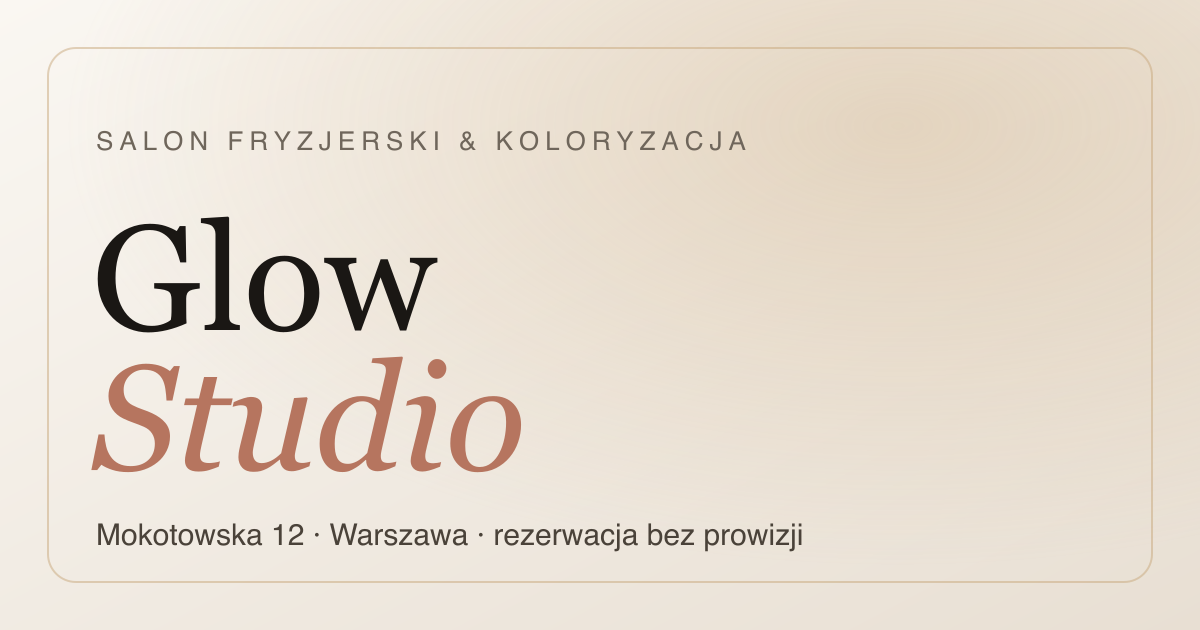
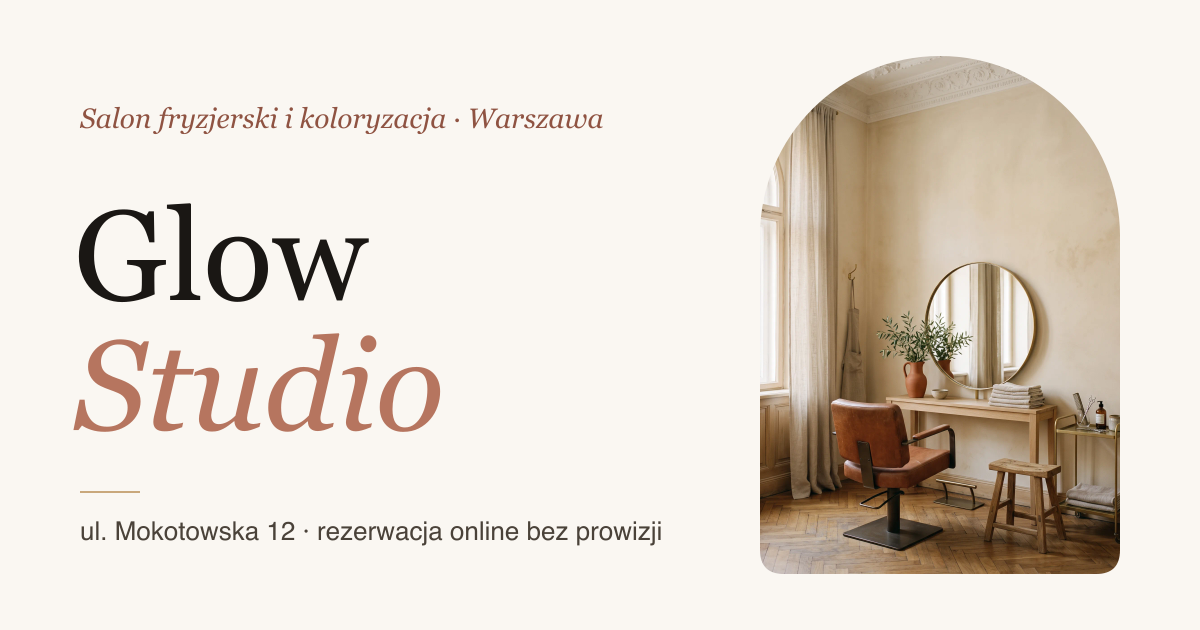
feat: dopracowanie po przeglądzie: 404, menu, OG, sierotki
- Własna strona 404 w stylu karty salonu.
- Menu mobilne: przyciemnienie tła, inert gdy zamknięte (linki poza Tab);
  pełna nawigacja dopiero od lg, żeby nie ściskała się na tablecie.
- Rezerwacja: "Dalej" także w przyklejonym podsumowaniu na desktopie.
- Podstrona usługi: zdjęcie efektu, powiązane usługi pod treścią.
- Obraz OG/Twitter ze zdjęciem wnętrza w łuku okna.
- Twarde spacje po jednoliterowych słowach w nazwach i nagłówkach.
- data-scroll-behavior=smooth (Next 16), README: nowe media i skrypty.

diff --git a/src/app/uslugi/[slug]/page.tsx b/src/app/uslugi/[slug]/page.tsx
@@ -138,11 +138,34 @@ export default async function ServicePage({
                 Zadzwoń
               </Button>
             </div>
+
+            {related.length > 0 && (
+              <div className="mt-14 max-w-xl">
+                <h2 className="font-display text-lg italic text-ink-soft">
+                  W tej samej kategorii
+                </h2>
+                <ul className="mt-4 divide-y divide-line/70">
+                  {related.map((s) => (
+                    <li key={s.id}>
+                      <Link
+                        href={`/uslugi/${s.slug}`}
+                        className="flex min-h-11 items-center justify-between gap-4 py-3 text-sm transition-colors hover:text-terracotta-ink"
+                      >
+                        <span className="text-ink">{s.name}</span>
+                        <span className="shrink-0 tabular-nums text-muted">
+                          {formatPrice(s)}
+                        </span>
+                      </Link>
+                    </li>
+                  ))}
+                </ul>
+              </div>
+            )}
           </div>
 
-          {/* Karta podsumowania + powiązane */}
+          {/* Zdjęcie efektu (metamorfoza tej usługi albo detal studia) */}
           <aside className="lg:pt-10">
-            <figure className="mb-8">
+            <figure>
               <div className="arch relative aspect-4/5 w-full max-w-sm overflow-hidden bg-sand">
                 <Photo
                   src={example?.afterImage ?? "/studio/detal.webp"}
@@ -165,49 +188,6 @@ export default async function ServicePage({
                 </figcaption>
               )}
             </figure>
-            <div className="rounded-card border border-line bg-sand/30 p-7">
-              <dl className="space-y-3 text-sm">
-                <div className="flex justify-between border-b border-line pb-3">
-                  <dt className="text-muted">Cena</dt>
-                  <dd className="font-medium text-ink">{formatPrice(service)}</dd>
-                </div>
-                <div className="flex justify-between border-b border-line pb-3">
-                  <dt className="text-muted">Czas</dt>
-                  <dd className="text-ink">
-                    {formatDuration(service.durationMin)}
-                  </dd>
-                </div>
-                {category && (
-                  <div className="flex justify-between">
-                    <dt className="text-muted">Kategoria</dt>
-                    <dd className="text-ink">{category.name}</dd>
-                  </div>
-                )}
-              </dl>
-            </div>
-
-            {related.length > 0 && (
-              <div className="mt-8">
-                <h2 className="font-display text-lg italic text-ink-soft">
-                  W tej samej kategorii
-                </h2>
-                <ul className="mt-4 divide-y divide-line/70">
-                  {related.map((s) => (
-                    <li key={s.id}>
-                      <Link
-                        href={`/uslugi/${s.slug}`}
-                        className="flex min-h-11 items-center justify-between gap-4 py-3 text-sm transition-colors hover:text-terracotta-ink"
-                      >
-                        <span className="text-ink">{s.name}</span>
-                        <span className="shrink-0 tabular-nums text-muted">
-                          {formatPrice(s)}
-                        </span>
-                      </Link>
-                    </li>
-                  ))}
-                </ul>
-              </div>
-            )}
           </aside>
         </div>
       </Container>

diff --git a/src/components/sections/BeforeAfter.tsx b/src/components/sections/BeforeAfter.tsx
@@ -24,9 +24,9 @@ export function BeforeAfter() {
     <Section id="metamorfozy" className="border-t border-line bg-sand/35">
       <Reveal>
         <Eyebrow index="02">Metamorfozy</Eyebrow>
-        <div className="mt-5 flex flex-col gap-4 md:flex-row md:items-end md:justify-between">
+        <div className="mt-5 flex flex-col gap-4 lg:flex-row lg:items-end lg:justify-between">
           <h2 className="max-w-2xl font-display text-display font-light text-ink">
-            Przeciągnij i zobacz różnicę
+            Przeciągnij i&nbsp;zobacz różnicę
           </h2>
           <p className="max-w-sm text-sm text-muted">
             Ta sama osoba, to samo światło, ten sam kadr. Zmieniają się tylko
@@ -44,7 +44,9 @@ export function BeforeAfter() {
             sizes="(min-width: 1152px) 540px, (min-width: 1024px) 46vw, 100vw"
           />
           <p className="mt-3 flex items-center justify-between gap-4 text-sm text-muted">
-            <span>Przeciągnij albo użyj strzałek na klawiaturze.</span>
+            <span>
+              Przeciągnij suwak<span className="hidden lg:inline"> albo użyj strzałek na klawiaturze</span>.
+            </span>
             <button
               type="button"
               onClick={() => setOpen(true)}
@@ -66,7 +68,7 @@ export function BeforeAfter() {
             <h3 className="mt-2 font-display text-title font-light text-ink">
               {item.title}
             </h3>
-            <dl className="mt-6 grid grid-cols-3 gap-4 border-y border-line py-5 text-sm">
+            <dl className="mt-6 grid grid-cols-2 gap-4 border-y border-line py-5 text-sm sm:grid-cols-3">
               <div>
                 <dt className="text-muted">Usługa</dt>
                 <dd className="mt-1 text-ink">{item.serviceName}</dd>
@@ -91,7 +93,7 @@ export function BeforeAfter() {
 
           <Reveal className="mt-10">
             <h4 className="text-sm text-muted">Wybierz metamorfozę</h4>
-            <ul className="no-scrollbar -mx-6 mt-3 flex snap-x gap-3 overflow-x-auto px-6 pb-2 lg:mx-0 lg:grid lg:grid-cols-2 lg:gap-x-6 lg:gap-y-1 lg:overflow-visible lg:px-0">
+            <ul className="no-scrollbar -mx-6 mt-3 flex snap-x scroll-px-6 gap-3 overflow-x-auto px-6 pb-2 lg:mx-0 lg:grid lg:grid-cols-2 lg:gap-x-6 lg:gap-y-1 lg:overflow-visible lg:px-0">
               {transformations.map((t, i) => {
                 const on = i === active;
                 return (

diff --git a/src/components/layout/Navbar.tsx b/src/components/layout/Navbar.tsx
@@ -61,7 +61,7 @@ export function Navbar() {
         </Link>
 
         {/* Desktop */}
-        <ul className="hidden items-center gap-9 md:flex">
+        <ul className="hidden items-center gap-8 lg:flex">
           {links.map((l) => (
             <li key={l.href}>
               <Link
@@ -74,7 +74,7 @@ export function Navbar() {
           ))}
         </ul>
 
-        <div className="hidden md:block">
+        <div className="hidden lg:block">
           <Button href="/rezerwacja" className="px-6 py-3">
             Umów wizytę
           </Button>
@@ -83,7 +83,7 @@ export function Navbar() {
         {/* Hamburger (mobile) */}
         <button
           type="button"
-          className="flex h-11 w-11 items-center justify-center rounded-full md:hidden"
+          className="flex h-11 w-11 items-center justify-center rounded-full lg:hidden"
           aria-expanded={open}
           aria-controls="mobile-menu"
           aria-label={open ? "Zamknij menu" : "Otwórz menu"}
@@ -109,10 +109,20 @@ export function Navbar() {
         </button>
       </nav>
 
-      {/* Panel mobilny */}
+      {/* Przyciemnienie pod panelem: kliknięcie zamyka menu */}
+      <div
+        aria-hidden
+        onClick={() => setOpen(false)}
+        className={`fixed inset-x-0 top-20 bottom-0 -z-10 bg-ink/25 transition-opacity duration-300 lg:hidden ${
+          open ? "opacity-100" : "pointer-events-none opacity-0"
+        }`}
+      />
+
+      {/* Panel mobilny (inert, gdy zamknięty: linki poza kolejnością Tab) */}
       <div
         id="mobile-menu"
-        className={`overflow-hidden border-t border-line/60 bg-cream md:hidden ${
+        inert={!open}
+        className={`overflow-hidden border-t border-line/60 bg-cream lg:hidden ${
           open ? "max-h-[80vh]" : "max-h-0 border-transparent"
         } transition-[max-height] duration-500 ease-silk`}
       >

diff --git a/src/components/booking/BookingWizard.tsx b/src/components/booking/BookingWizard.tsx
@@ -355,7 +355,7 @@ export function BookingWizard({
               )}
               <fieldset>
                 <legend className="text-sm text-muted">Dzień</legend>
-                <div className="no-scrollbar -mx-6 mt-3 flex snap-x gap-2 overflow-x-auto px-6 pb-1 lg:mx-0 lg:flex-wrap lg:px-0">
+                <div className="no-scrollbar -mx-6 mt-3 flex snap-x scroll-px-6 gap-2 overflow-x-auto px-6 pb-1 lg:mx-0 lg:flex-wrap lg:px-0">
                   {days.map((d) => {
                     const on = date === d.iso;
                     return (
@@ -603,11 +603,6 @@ export function BookingWizard({
             >
               Dalej: {STEPS[step]}
             </button>
-            {stepError && (
-              <p role="alert" className="text-sm text-terracotta-ink">
-                {stepError}
-              </p>
-            )}
           </div>
         )}
       </div>
@@ -630,7 +625,21 @@ export function BookingWizard({
               {formatDuration(service.durationMin)}
             </p>
           )}
-          <p className="mt-6 text-sm text-muted">
+          {step < 4 && (
+            <button
+              type="button"
+              onClick={() => goTo(step + 1)}
+              className="press mt-6 inline-flex min-h-12 w-full items-center justify-center rounded-pill bg-terracotta-deep px-6 text-sm font-medium text-cream transition-colors duration-300 hover:bg-[#84503f]"
+            >
+              Dalej: {STEPS[step]}
+            </button>
+          )}
+          {stepError && (
+            <p role="alert" className="mt-3 text-sm text-terracotta-ink">
+              {stepError}
+            </p>
+          )}
+          <p className="mt-5 text-sm text-muted">
             Rezerwujesz bezpośrednio u nas, bez prowizji pośredników.
           </p>
         </div>

diff --git a/src/data/services.ts b/src/data/services.ts
@@ -1,4 +1,5 @@
 import type { Service, ServiceCategory } from "@/lib/types";
+import { sierotki } from "@/lib/format";
 
 /**
  * Cennik Glow Studio: realne widełki dla salonu premium w Warszawie.
@@ -6,7 +7,7 @@ import type { Service, ServiceCategory } from "@/lib/types";
  * Czasy trwania zasilają kreator rezerwacji i siatkę slotów.
  */
 
-export const serviceCategories: ServiceCategory[] = [
+const categoriesRaw: ServiceCategory[] = [
   {
     id: "cat-cut",
     slug: "strzyzenie",
@@ -41,7 +42,7 @@ export const serviceCategories: ServiceCategory[] = [
   },
 ];
 
-export const services: Service[] = [
+const servicesRaw: Service[] = [
   // Strzyżenie i modelowanie
   {
     id: "svc-cut-women",
@@ -254,3 +255,16 @@ export const services: Service[] = [
     staffIds: ["maja", "natalia"],
   },
 ];
+
+/** Nazwy i opisy z twardymi spacjami po jednoliterowych słowach (bez sierotek). */
+export const serviceCategories: ServiceCategory[] = categoriesRaw.map((c) => ({
+  ...c,
+  name: sierotki(c.name),
+  description: sierotki(c.description),
+}));
+
+export const services: Service[] = servicesRaw.map((s) => ({
+  ...s,
+  name: sierotki(s.name),
+  description: sierotki(s.description),
+}));

diff --git a/src/components/sections/Services.tsx b/src/components/sections/Services.tsx
@@ -42,7 +42,7 @@ export function Services() {
     <Section id="cennik" className="border-t border-line">
       <Reveal>
         <Eyebrow index="03">Karta usług</Eyebrow>
-        <div className="mt-5 flex flex-col gap-4 md:flex-row md:items-end md:justify-between">
+        <div className="mt-5 flex flex-col gap-4 lg:flex-row lg:items-end lg:justify-between">
           <h2 className="max-w-2xl font-display text-display font-light text-ink">
             Cennik, w którym wszystko jest jasne
           </h2>
@@ -58,7 +58,7 @@ export function Services() {
           <div
             role="tablist"
             aria-label="Kategorie usług"
-            className="no-scrollbar -mx-6 flex gap-2 overflow-x-auto px-6 lg:mx-0 lg:flex-col lg:gap-0 lg:overflow-visible lg:border-t lg:border-line lg:px-0"
+            className="no-scrollbar -mx-6 flex scroll-px-6 gap-2 overflow-x-auto px-6 lg:mx-0 lg:flex-col lg:gap-0 lg:overflow-visible lg:border-t lg:border-line lg:px-0"
           >
             {serviceCategories.map((c, i) => {
               const on = i === active;

diff --git a/src/components/sections/Manifesto.tsx b/src/components/sections/Manifesto.tsx
@@ -17,7 +17,7 @@ export function Manifesto() {
           <p className="mt-8 font-display text-[clamp(2.1rem,4.6vw,4.1rem)] leading-[1.1] font-light tracking-[-0.01em] text-ink">
             Wierzymy, że piękno rodzi się ze{" "}
             <em className="text-terracotta">spokoju</em>: bez pośpiechu, bez
-            kompromisów, z pełną uwagą poświęconą Tobie.
+            kompromisów, z&nbsp;pełną uwagą poświęconą Tobie.
           </p>
           <p className="mt-8 max-w-lg text-ink-soft">
             Każda wizyta zaczyna się od rozmowy i kawy, a kończy efektem, z którym
@@ -26,7 +26,7 @@ export function Manifesto() {
           </p>
         </Reveal>
 
-        <Reveal delay={120} className="mx-auto w-full max-w-md lg:col-span-5 lg:-mr-20 lg:max-w-none">
+        <Reveal delay={120} className="mx-auto w-full max-w-sm lg:col-span-5 lg:-mr-20 lg:max-w-none">
           <Image
             src={ART}
             alt=""

diff --git a/src/app/not-found.tsx b/src/app/not-found.tsx
@@ -1,0 +1,25 @@
+import { Container } from "@/components/ui/Container";
+import { Button } from "@/components/ui/Button";
+
+export default function NotFound() {
+  return (
+    <div className="pt-32 pb-28 md:pt-40">
+      <Container className="max-w-3xl">
+        <p className="font-display text-sm italic text-terracotta-ink">N°404</p>
+        <h1 className="mt-4 font-display text-display font-light text-ink">
+          Tej strony u&nbsp;nas nie ma
+        </h1>
+        <p className="mt-5 max-w-lg text-ink-soft">
+          Adres mógł się zmienić albo zawierać literówkę. Cennik, metamorfozy
+          i rezerwacja są na stronie głównej.
+        </p>
+        <div className="mt-10 flex flex-wrap gap-3 sm:gap-4">
+          <Button href="/">Strona główna</Button>
+          <Button href="/uslugi" variant="outline">
+            Pełny cennik
+          </Button>
+        </div>
+      </Container>
+    </div>
+  );
+}

diff --git a/src/data/portfolio.ts b/src/data/portfolio.ts
@@ -1,4 +1,5 @@
 import type { Transformation } from "@/lib/types";
+import { sierotki } from "@/lib/format";
 
 /**
  * Metamorfozy „przed/po”: bohater sekcji galerii (suwak w BeforeAfter).
@@ -6,7 +7,7 @@ import type { Transformation } from "@/lib/types";
  * edycją zdjęcia „przed”, więc to ta sama osoba, kadr, ubranie i światło,
  * a zmieniają się wyłącznie włosy. Zob. scripts/optimize-media.mjs.
  */
-export const transformations: Transformation[] = [
+const transformationsRaw: Transformation[] = [
   {
     id: "tr-1",
     title: "Ciepły balayage na bazie brunet",
@@ -89,3 +90,8 @@ export const transformations: Transformation[] = [
     tags: ["sombre", "glamour", "fale"],
   },
 ];
+
+export const transformations: Transformation[] = transformationsRaw.map((t) => ({
+  ...t,
+  title: sierotki(t.title),
+}));

diff --git a/src/components/sections/Hero.tsx b/src/components/sections/Hero.tsx
@@ -27,9 +27,9 @@ export function Hero() {
             </h1>
 
             <p className="mt-8 max-w-md text-lg leading-relaxed text-ink-soft">
-              Autorskie studio strzyżenia, balayage i regeneracji w sercu
-              Warszawy. Umów wizytę bezpośrednio u nas, bez pośredników
-              i bez prowizji.
+              Autorskie studio strzyżenia, balayage i&nbsp;regeneracji w&nbsp;sercu
+              Warszawy. Umów wizytę bezpośrednio u&nbsp;nas, bez pośredników
+              i&nbsp;bez prowizji.
             </p>
 
             <div className="mt-9 flex flex-wrap items-center gap-3 sm:gap-4">

diff --git a/src/components/sections/Team.tsx b/src/components/sections/Team.tsx
@@ -60,7 +60,7 @@ export function Team() {
         </article>
       </Reveal>
 
-      <ul className="no-scrollbar -mx-6 mt-16 flex snap-x snap-mandatory gap-5 overflow-x-auto px-6 pb-2 sm:mx-0 sm:grid sm:grid-cols-3 sm:gap-8 sm:overflow-visible sm:px-0">
+      <ul className="no-scrollbar -mx-6 mt-16 flex snap-x snap-mandatory scroll-px-6 gap-5 overflow-x-auto px-6 pb-2 sm:mx-0 sm:grid sm:grid-cols-3 sm:gap-8 sm:overflow-visible sm:px-0">
         {rest.map((person, i) => (
           <li key={person.id} className="w-[78%] shrink-0 snap-start sm:w-auto">
             <Reveal delay={i * 80}>

diff --git a/src/components/layout/Footer.tsx b/src/components/layout/Footer.tsx
@@ -121,7 +121,7 @@ export function Footer() {
 
         <div className="mt-14 flex flex-col gap-2 border-t border-line pt-6 text-xs text-muted md:flex-row md:items-center md:justify-between">
           <p>
-            © {year} {salon.legalName ?? salon.name}. Wszelkie prawa zastrzeżone.
+            © {year} {salon.legalName ?? salon.name} Wszelkie prawa zastrzeżone.
           </p>
           <p className="max-w-md md:text-right">
             Projekt demonstracyjny: salon, zespół, opinie i zdjęcia są fikcyjne
